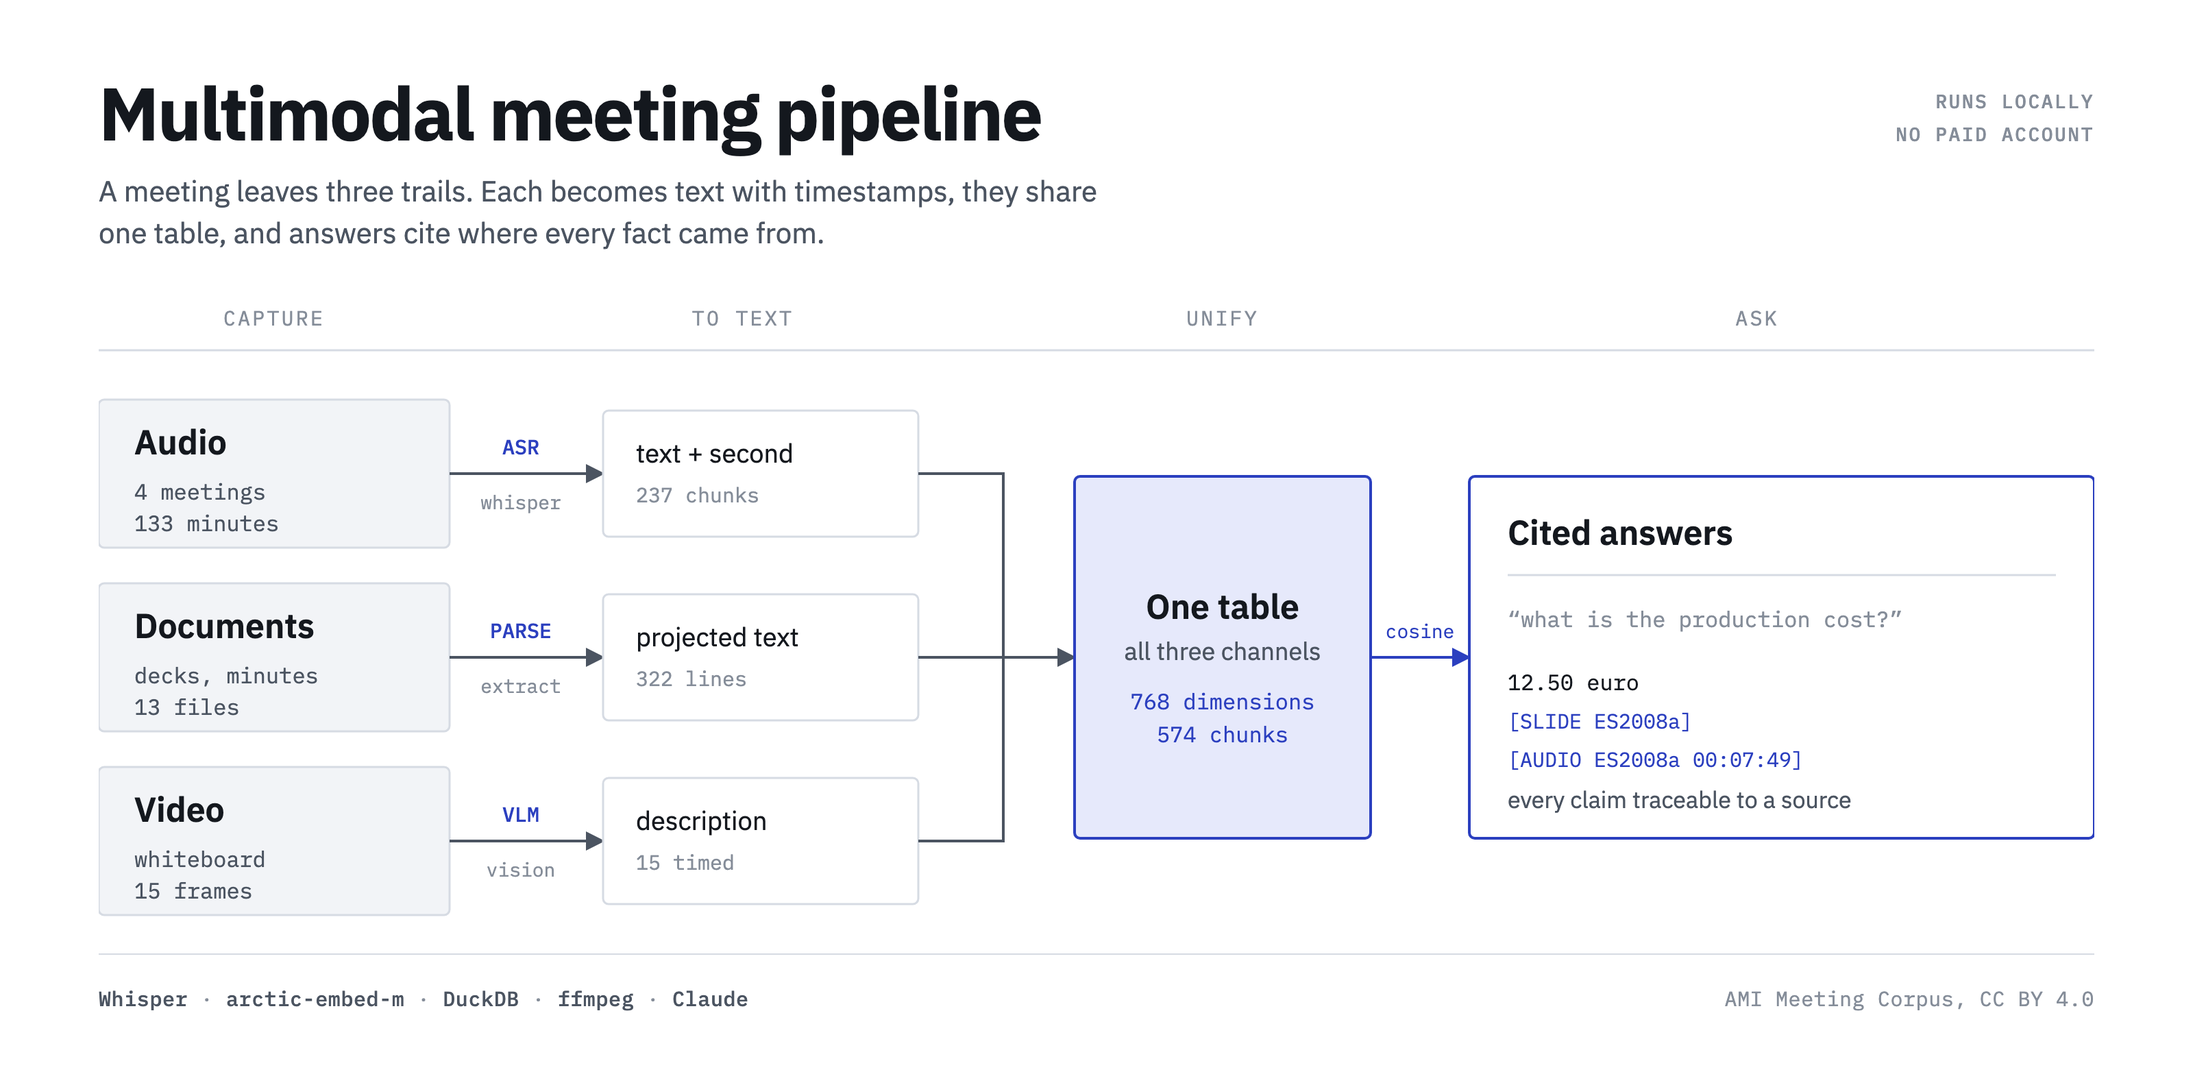
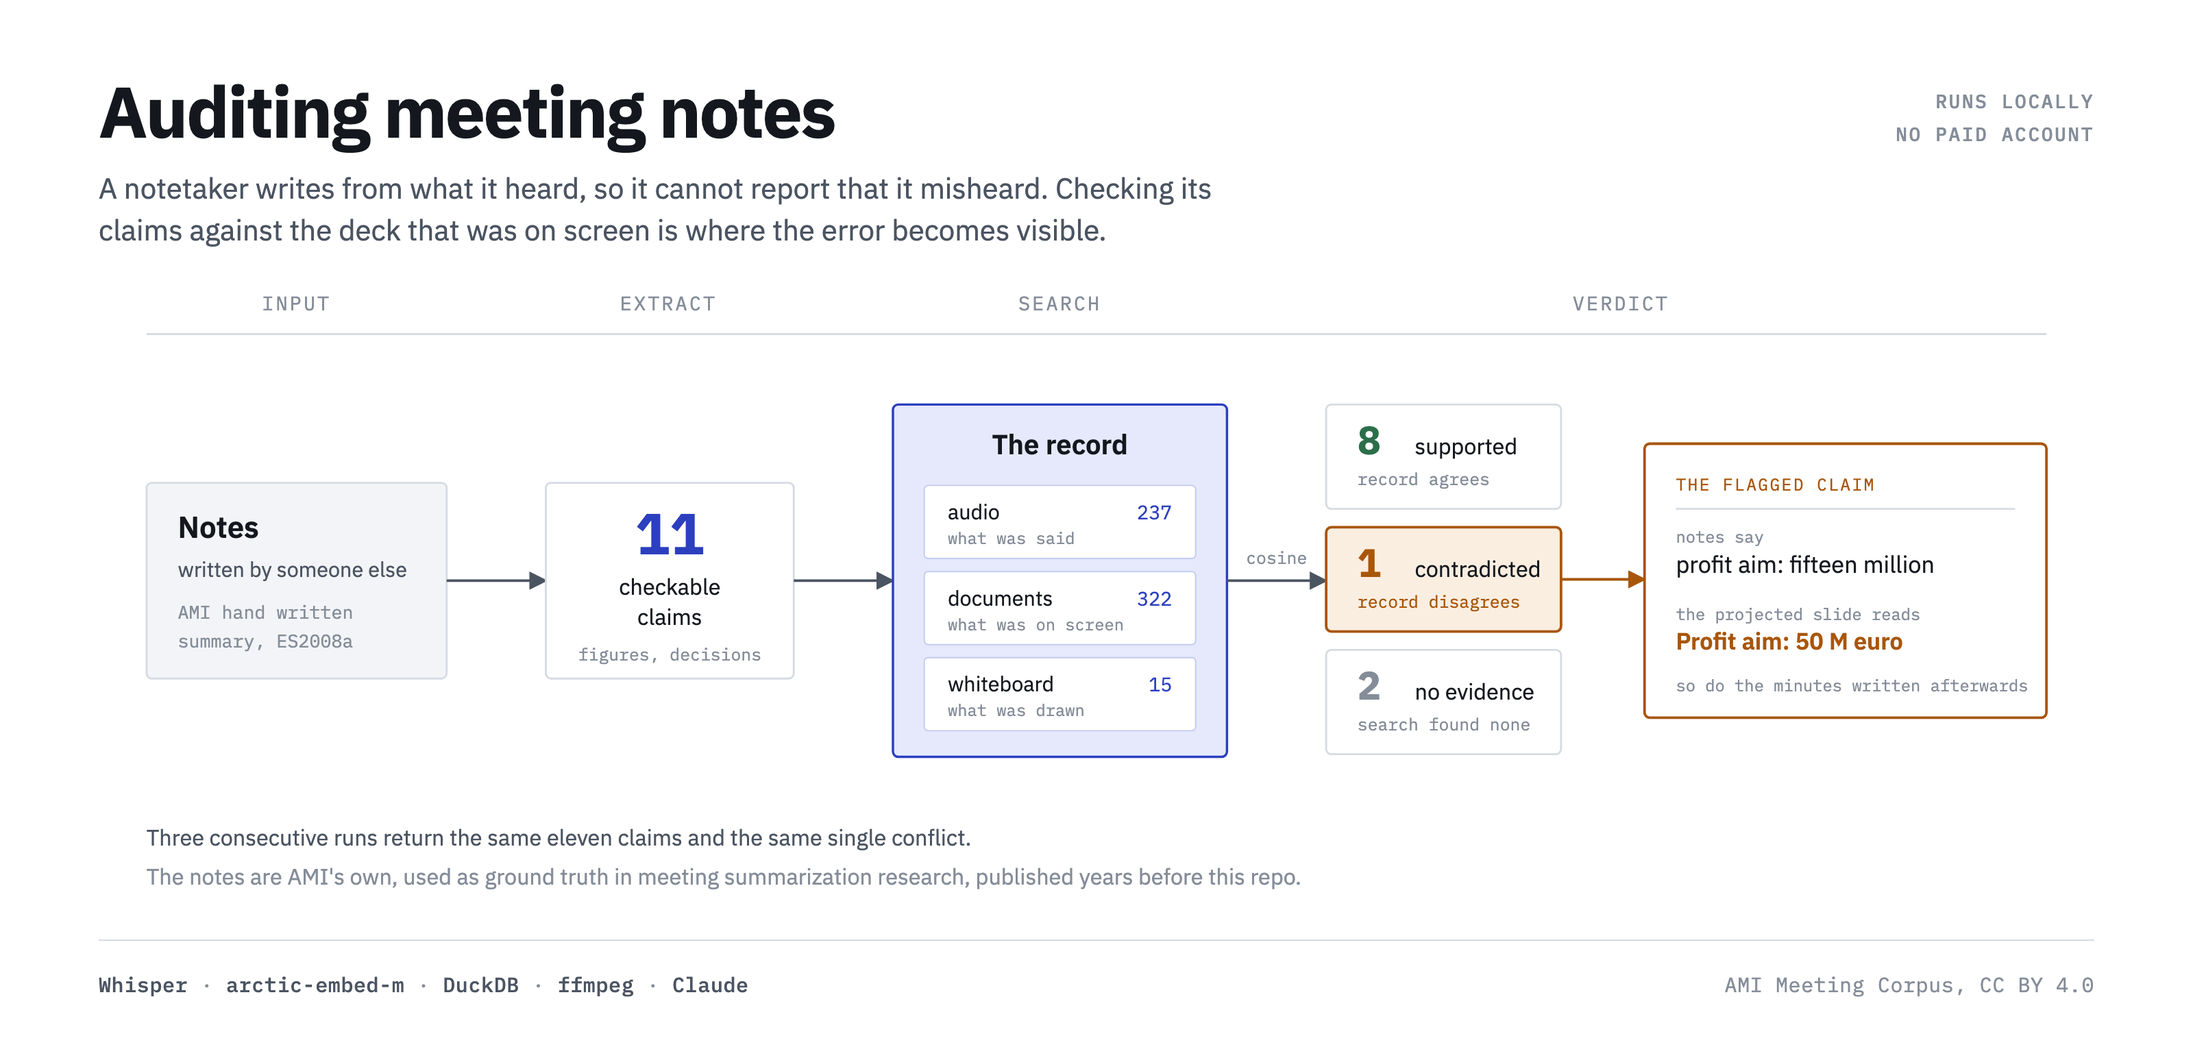
Slide and post now lead with the audit
The slide showed the ingest pipeline while the post had moved on to
auditing someone else's notes. Both now show the same thing: notes in,
eleven checkable claims out, each searched across the three channels, and
one claim contradicted by the deck that was on screen.

diff --git a/docs/slide.html b/docs/slide.html
@@ -1,4 +1,4 @@
-<title>Multimodal meeting pipeline</title>
+<title>Auditing meeting notes</title>
 <link rel="preconnect" href="https://fonts.googleapis.com">
 <link rel="preconnect" href="https://fonts.gstatic.com" crossorigin>
 <link rel="stylesheet" href="https://fonts.googleapis.com/css2?family=IBM+Plex+Mono:wght@400;500;600&family=IBM+Plex+Sans:wght@400;500;600;700&display=swap">
@@ -13,13 +13,16 @@
     --rule:     #D6DBE3;
     --blue:     #2B3FBF;
     --blue-lo:  #E6E9FB;
+    --flag:     #A8560A;
+    --flag-lo:  #FAEEE0;
+    --ok:       #2C6E4B;
   }
 
   * { box-sizing: border-box; margin: 0; padding: 0; }
 
   body {
     width: 1600px;
-    height: 782px;
+    height: 772px;
     background: var(--ground);
     color: var(--ink);
     font-family: "IBM Plex Sans", system-ui, -apple-system, sans-serif;
@@ -28,7 +31,7 @@
 
   .slide {
     width: 1600px;
-    height: 782px;
+    height: 772px;
     padding: 54px 72px 44px;
     display: flex;
     flex-direction: column;
@@ -38,11 +41,10 @@
     display: flex;
     justify-content: space-between;
     align-items: flex-start;
-    margin-bottom: 8px;
   }
 
   h1 {
-    font-size: 54px;
+    font-size: 52px;
     font-weight: 700;
     letter-spacing: -.026em;
     line-height: 1.05;
@@ -52,7 +54,7 @@
     font-size: 21px;
     color: var(--ink-soft);
     margin-top: 14px;
-    max-width: 60ch;
+    max-width: 66ch;
     line-height: 1.45;
   }
 
@@ -91,10 +93,11 @@
 
   <div class="top">
     <div>
-      <h1>Multimodal meeting pipeline</h1>
+      <h1>Auditing meeting notes</h1>
       <p class="sub">
-        A meeting leaves three trails. Each becomes text with timestamps, they
-        share one table, and answers cite where every fact came from.
+        A notetaker writes from what it heard, so it cannot report that it
+        misheard. Checking its claims against the deck that was on screen is
+        where the error becomes visible.
       </p>
     </div>
     <div class="badge">
@@ -103,97 +106,101 @@
     </div>
   </div>
 
-  <svg viewBox="0 0 1456 470" role="img"
-       aria-label="Three channels, audio, documents and video, each converted to timestamped text, embedded into one table, and queried to produce cited answers.">
+  <svg viewBox="0 0 1456 500" role="img"
+       aria-label="Notes written by someone else are broken into eleven checkable claims, each searched across the meeting's audio, documents and whiteboard channels, and returned as supported, contradicted or no evidence. One claim, a profit aim of fifteen million euro, is contradicted by a slide reading fifty million euro.">
     <defs>
       <marker id="a" viewBox="0 0 10 10" refX="9" refY="5"
               markerWidth="7" markerHeight="7" orient="auto-start-reverse">
         <path d="M 0 0 L 10 5 L 0 10 z" fill="#4B5461"/>
       </marker>
-      <marker id="b" viewBox="0 0 10 10" refX="9" refY="5"
+      <marker id="f" viewBox="0 0 10 10" refX="9" refY="5"
               markerWidth="7" markerHeight="7" orient="auto-start-reverse">
-        <path d="M 0 0 L 10 5 L 0 10 z" fill="#2B3FBF"/>
+        <path d="M 0 0 L 10 5 L 0 10 z" fill="#A8560A"/>
       </marker>
     </defs>
 
     <g font-family="IBM Plex Mono, monospace" font-size="15" letter-spacing="1.6"
        fill="#858D99" text-anchor="middle">
-      <text x="128" y="18">CAPTURE</text>
-      <text x="470" y="18">TO TEXT</text>
-      <text x="820" y="18">UNIFY</text>
-      <text x="1210" y="18">ASK</text>
+      <text x="115" y="18">INPUT</text>
+      <text x="400" y="18">EXTRACT</text>
+      <text x="700" y="18">SEARCH</text>
+      <text x="1130" y="18">VERDICT</text>
     </g>
     <line x1="0" y1="36" x2="1456" y2="36" stroke="#D6DBE3" stroke-width="1.5"/>
 
-    <!-- audio -->
-    <rect x="0" y="72" width="256" height="108" rx="4" fill="#F2F4F7" stroke="#D6DBE3" stroke-width="1.5"/>
-    <text x="26" y="112" font-size="25" font-weight="600" fill="#14181E">Audio</text>
-    <text x="26" y="145" font-family="IBM Plex Mono, monospace" font-size="16" fill="#4B5461">4 meetings</text>
-    <text x="26" y="168" font-family="IBM Plex Mono, monospace" font-size="16" fill="#4B5461">133 minutes</text>
+    <!-- input: someone else's notes -->
+    <rect x="0" y="150" width="230" height="150" rx="4" fill="#F2F4F7" stroke="#D6DBE3" stroke-width="1.5"/>
+    <text x="24" y="192" font-size="23" font-weight="600" fill="#14181E">Notes</text>
+    <text x="24" y="222" font-size="16" fill="#4B5461">written by someone else</text>
+    <text x="24" y="254" font-family="IBM Plex Mono, monospace" font-size="14" fill="#858D99">AMI hand written</text>
+    <text x="24" y="276" font-family="IBM Plex Mono, monospace" font-size="14" fill="#858D99">summary, ES2008a</text>
 
-    <line x1="256" y1="126" x2="368" y2="126" stroke="#4B5461" stroke-width="2" marker-end="url(#a)"/>
-    <text x="308" y="112" font-family="IBM Plex Mono, monospace" font-size="15" fill="#2B3FBF" text-anchor="middle" font-weight="500">ASR</text>
-    <text x="308" y="152" font-family="IBM Plex Mono, monospace" font-size="14" fill="#858D99" text-anchor="middle">whisper</text>
+    <line x1="230" y1="225" x2="306" y2="225" stroke="#4B5461" stroke-width="2" marker-end="url(#a)"/>
 
-    <rect x="368" y="80" width="230" height="92" rx="4" fill="#FFFFFF" stroke="#D6DBE3" stroke-width="1.5"/>
-    <text x="392" y="118" font-size="19" fill="#14181E">text + second</text>
-    <text x="392" y="147" font-family="IBM Plex Mono, monospace" font-size="15" fill="#858D99">237 chunks</text>
+    <!-- claims -->
+    <rect x="306" y="150" width="190" height="150" rx="4" fill="#FFFFFF" stroke="#D6DBE3" stroke-width="1.5"/>
+    <text x="401" y="205" font-size="44" font-weight="700" fill="#2B3FBF" text-anchor="middle">11</text>
+    <text x="401" y="236" font-size="17" fill="#14181E" text-anchor="middle">checkable</text>
+    <text x="401" y="259" font-size="17" fill="#14181E" text-anchor="middle">claims</text>
+    <text x="401" y="286" font-family="IBM Plex Mono, monospace" font-size="13" fill="#858D99" text-anchor="middle">figures, decisions</text>
 
-    <!-- documents -->
-    <rect x="0" y="206" width="256" height="108" rx="4" fill="#F2F4F7" stroke="#D6DBE3" stroke-width="1.5"/>
-    <text x="26" y="246" font-size="25" font-weight="600" fill="#14181E">Documents</text>
-    <text x="26" y="279" font-family="IBM Plex Mono, monospace" font-size="16" fill="#4B5461">decks, minutes</text>
-    <text x="26" y="302" font-family="IBM Plex Mono, monospace" font-size="16" fill="#4B5461">13 files</text>
+    <line x1="496" y1="225" x2="572" y2="225" stroke="#4B5461" stroke-width="2" marker-end="url(#a)"/>
 
-    <line x1="256" y1="260" x2="368" y2="260" stroke="#4B5461" stroke-width="2" marker-end="url(#a)"/>
-    <text x="308" y="246" font-family="IBM Plex Mono, monospace" font-size="15" fill="#2B3FBF" text-anchor="middle" font-weight="500">PARSE</text>
-    <text x="308" y="286" font-family="IBM Plex Mono, monospace" font-size="14" fill="#858D99" text-anchor="middle">extract</text>
+    <!-- the meeting record, three channels -->
+    <rect x="572" y="90" width="256" height="270" rx="4" fill="#E6E9FB" stroke="#2B3FBF" stroke-width="1.8"/>
+    <text x="700" y="128" font-size="21" font-weight="600" fill="#14181E" text-anchor="middle">The record</text>
 
-    <rect x="368" y="214" width="230" height="92" rx="4" fill="#FFFFFF" stroke="#D6DBE3" stroke-width="1.5"/>
-    <text x="392" y="252" font-size="19" fill="#14181E">projected text</text>
-    <text x="392" y="281" font-family="IBM Plex Mono, monospace" font-size="15" fill="#858D99">322 lines</text>
+    <rect x="596" y="152" width="208" height="56" rx="3" fill="#FFFFFF" stroke="#C3CAF2"/>
+    <text x="614" y="178" font-size="16" fill="#14181E">audio</text>
+    <text x="786" y="178" font-family="IBM Plex Mono, monospace" font-size="15" fill="#2B3FBF" text-anchor="end">237</text>
+    <text x="614" y="197" font-family="IBM Plex Mono, monospace" font-size="12.5" fill="#858D99">what was said</text>
 
-    <!-- video -->
-    <rect x="0" y="340" width="256" height="108" rx="4" fill="#F2F4F7" stroke="#D6DBE3" stroke-width="1.5"/>
-    <text x="26" y="380" font-size="25" font-weight="600" fill="#14181E">Video</text>
-    <text x="26" y="413" font-family="IBM Plex Mono, monospace" font-size="16" fill="#4B5461">whiteboard</text>
-    <text x="26" y="436" font-family="IBM Plex Mono, monospace" font-size="16" fill="#4B5461">15 frames</text>
+    <rect x="596" y="218" width="208" height="56" rx="3" fill="#FFFFFF" stroke="#C3CAF2"/>
+    <text x="614" y="244" font-size="16" fill="#14181E">documents</text>
+    <text x="786" y="244" font-family="IBM Plex Mono, monospace" font-size="15" fill="#2B3FBF" text-anchor="end">322</text>
+    <text x="614" y="263" font-family="IBM Plex Mono, monospace" font-size="12.5" fill="#858D99">what was on screen</text>
 
-    <line x1="256" y1="394" x2="368" y2="394" stroke="#4B5461" stroke-width="2" marker-end="url(#a)"/>
-    <text x="308" y="380" font-family="IBM Plex Mono, monospace" font-size="15" fill="#2B3FBF" text-anchor="middle" font-weight="500">VLM</text>
-    <text x="308" y="420" font-family="IBM Plex Mono, monospace" font-size="14" fill="#858D99" text-anchor="middle">vision</text>
+    <rect x="596" y="284" width="208" height="56" rx="3" fill="#FFFFFF" stroke="#C3CAF2"/>
+    <text x="614" y="310" font-size="16" fill="#14181E">whiteboard</text>
+    <text x="786" y="310" font-family="IBM Plex Mono, monospace" font-size="15" fill="#2B3FBF" text-anchor="end">15</text>
+    <text x="614" y="329" font-family="IBM Plex Mono, monospace" font-size="12.5" fill="#858D99">what was drawn</text>
 
-    <rect x="368" y="348" width="230" height="92" rx="4" fill="#FFFFFF" stroke="#D6DBE3" stroke-width="1.5"/>
-    <text x="392" y="386" font-size="19" fill="#14181E">description</text>
-    <text x="392" y="415" font-family="IBM Plex Mono, monospace" font-size="15" fill="#858D99">15 timed</text>
+    <line x1="828" y1="225" x2="904" y2="225" stroke="#4B5461" stroke-width="2" marker-end="url(#a)"/>
+    <text x="866" y="212" font-family="IBM Plex Mono, monospace" font-size="13" fill="#858D99" text-anchor="middle">cosine</text>
 
-    <!-- converge -->
-    <g stroke="#4B5461" stroke-width="2" fill="none">
-      <path d="M 598 126 L 660 126 L 660 260"/>
-      <path d="M 598 394 L 660 394 L 660 260"/>
-      <line x1="598" y1="260" x2="660" y2="260"/>
-      <line x1="660" y1="260" x2="712" y2="260" marker-end="url(#a)"/>
-    </g>
+    <!-- verdicts -->
+    <rect x="904" y="90" width="180" height="80" rx="4" fill="#FFFFFF" stroke="#D6DBE3" stroke-width="1.5"/>
+    <text x="928" y="128" font-size="30" font-weight="700" fill="#2C6E4B">8</text>
+    <text x="972" y="128" font-size="17" fill="#14181E">supported</text>
+    <text x="928" y="152" font-family="IBM Plex Mono, monospace" font-size="13" fill="#858D99">record agrees</text>
 
-    <rect x="712" y="128" width="216" height="264" rx="4" fill="#E6E9FB" stroke="#2B3FBF" stroke-width="2"/>
-    <text x="820" y="232" font-size="25" font-weight="600" fill="#14181E" text-anchor="middle">One table</text>
-    <text x="820" y="262" font-size="18" fill="#4B5461" text-anchor="middle">all three channels</text>
-    <text x="820" y="298" font-family="IBM Plex Mono, monospace" font-size="16" fill="#2B3FBF" text-anchor="middle">768 dimensions</text>
-    <text x="820" y="322" font-family="IBM Plex Mono, monospace" font-size="16" fill="#2B3FBF" text-anchor="middle">574 chunks</text>
+    <rect x="904" y="184" width="180" height="80" rx="4" fill="#FAEEE0" stroke="#A8560A" stroke-width="2"/>
+    <text x="928" y="222" font-size="30" font-weight="700" fill="#A8560A">1</text>
+    <text x="972" y="222" font-size="17" fill="#14181E">contradicted</text>
+    <text x="928" y="246" font-family="IBM Plex Mono, monospace" font-size="13" fill="#A8560A">record disagrees</text>
 
-    <line x1="928" y1="260" x2="1000" y2="260" stroke="#2B3FBF" stroke-width="2" marker-end="url(#b)"/>
-    <text x="964" y="246" font-family="IBM Plex Mono, monospace" font-size="14" fill="#2B3FBF" text-anchor="middle">cosine</text>
+    <rect x="904" y="278" width="180" height="80" rx="4" fill="#FFFFFF" stroke="#D6DBE3" stroke-width="1.5"/>
+    <text x="928" y="316" font-size="30" font-weight="700" fill="#858D99">2</text>
+    <text x="972" y="316" font-size="17" fill="#14181E">no evidence</text>
+    <text x="928" y="340" font-family="IBM Plex Mono, monospace" font-size="13" fill="#858D99">search found none</text>
 
-    <rect x="1000" y="128" width="456" height="264" rx="4" fill="#FFFFFF" stroke="#2B3FBF" stroke-width="2"/>
-    <text x="1028" y="178" font-size="25" font-weight="600" fill="#14181E">Cited answers</text>
-    <line x1="1028" y1="200" x2="1428" y2="200" stroke="#D6DBE3" stroke-width="1.5"/>
+    <line x1="1084" y1="224" x2="1148" y2="224" stroke="#A8560A" stroke-width="2" marker-end="url(#f)"/>
 
-    <text x="1028" y="238" font-family="IBM Plex Mono, monospace" font-size="16" fill="#858D99">“what is the production cost?”</text>
+    <!-- the one flagged claim -->
+    <rect x="1148" y="120" width="308" height="210" rx="4" fill="#FFFFFF" stroke="#A8560A" stroke-width="2"/>
+    <text x="1172" y="156" font-family="IBM Plex Mono, monospace" font-size="13" fill="#A8560A" letter-spacing="1.2">THE FLAGGED CLAIM</text>
+    <line x1="1172" y1="170" x2="1432" y2="170" stroke="#D6DBE3" stroke-width="1.5"/>
 
-    <text x="1028" y="284" font-family="IBM Plex Mono, monospace" font-size="16" fill="#14181E">12.50 euro</text>
-    <text x="1028" y="312" font-family="IBM Plex Mono, monospace" font-size="15" fill="#2B3FBF">[SLIDE ES2008a]</text>
-    <text x="1028" y="340" font-family="IBM Plex Mono, monospace" font-size="15" fill="#2B3FBF">[AUDIO ES2008a 00:07:49]</text>
-    <text x="1028" y="370" font-size="17" fill="#4B5461">every claim traceable to a source</text>
+    <text x="1172" y="196" font-family="IBM Plex Mono, monospace" font-size="12.5" fill="#858D99">notes say</text>
+    <text x="1172" y="219" font-size="18" fill="#14181E">profit aim: fifteen million</text>
+
+    <text x="1172" y="255" font-family="IBM Plex Mono, monospace" font-size="12.5" fill="#858D99">the projected slide reads</text>
+    <text x="1172" y="278" font-size="18" font-weight="600" fill="#A8560A">Profit aim: 50 M euro</text>
+
+    <text x="1172" y="310" font-family="IBM Plex Mono, monospace" font-size="12.5" fill="#858D99">so do the minutes written afterwards</text>
+
+    <text x="0" y="428" font-size="17" fill="#4B5461">Three consecutive runs return the same eleven claims and the same single conflict.</text>
+    <text x="0" y="458" font-size="17" fill="#858D99">The notes are AMI's own, used as ground truth in meeting summarization research, published years before this repo.</text>
   </svg>
 
   <div class="foot">

diff --git a/scripts/build_post.py b/scripts/build_post.py
@@ -29,51 +29,47 @@ def arrow(claim, rest):
 
 
 POST = "\n\n".join([
- "I've been learning multimodal data pipelines in Snowflake, ASR and OCR, so I rebuilt the course locally to see how a meeting breaks down into text you can actually query, (also created a repo, link at the end of the post). Here is how it works:",
+ "I've been learning multimodal data pipelines in Snowflake, so I built something that checks meeting notes against what was actually on the screen. Then I pointed it at notes written by humans:",
 
- "A meeting has 3 components: what people said, what was on the screen, and what someone drew on the board. Most tools only read the first one. All three end up as text in a single table, audio and video carrying timestamps.",
+ "It flagged one claim out of eleven.",
 
- arrow("Audio to text",
-       "Whisper runs locally with word-level timestamps. 2.2 hours of meetings transcribed in under 11 minutes, and confidential audio never leaves the laptop."),
+ "The notes said the profit aim was fifteen million euro. The slide projected during that meeting reads \"Profit aim: 50 M euro\", and so do the minutes the project manager typed up afterwards. The hand written transcript of that meeting also reads \"fifteen million\", so the error came in through the audio and rode into the summary.",
 
- arrow("Documents to text",
-       "the decks and minutes that were projected, mapped to the meeting where each one was shown."),
+ arrow("The tool was not told where to look",
+       "it pulls the checkable claims out of the notes, searches audio, documents and whiteboard frames for each one, and returns supported, contradicted or no evidence. Three consecutive runs returned the same eleven claims and the same single conflict."),
 
- arrow("Video to text",
-       "ffmpeg samples frames, and a vision model describes them and transcribes any legible text on the board."),
+ arrow("The machine broke a different number than the human did",
+       "on that same slide, Whisper turned a production cost of 12.50 euro into 1250, and got the profit aim right. The human record did the opposite. Neither error is visible from inside the audio, only against the document."),
 
- arrow("One table, not three",
-       "all three channels get embedded with the same model and land in one DuckDB table, so a single query ranks audio, documents and video against each other."),
+ arrow("It is not one meeting",
+       "of the 142 hand annotated summaries in this corpus, twelve state a profit aim. Ten say fifty million. Two say fifteen."),
 
- arrow("Answers you can audit",
-       "a token budget for the context, and answers that carry the audio timestamp or the document they came from."),
-
- "Every stage has an exact Snowflake Cortex equivalent, and the embedding model is the same one Cortex runs, from HuggingFace.",
+ "The notes I audited are AMI's own, written by trained annotators and used as ground truth in meeting summarization research. They were published years before this repo.",
 
  bold("Some lessons learned:"),
 
- arrow("The generated channel has to speak the language of the corpus",
-       "I wrote the vision prompt in Spanish over English meetings, so the descriptions clustered by language instead of topic, and a pricing question returned ten video frames and no pricing."),
+ arrow("A summary is only as right as the channel it was written from",
+       "nothing inside an audio only pipeline can report that it misheard."),
 
- arrow("Scene change sampling fails on whiteboards",
-       "slides cut hard between frames, but strokes accumulate slowly, so ffmpeg returned zero frames until I sampled by interval instead."),
+ arrow("No evidence is a retrieval result, not a verdict",
+       "two claims came back unmatched. That says the search missed them, not that they are false, and it is the part worth reading by hand."),
 
- arrow("The similarity threshold belongs to the model",
-       "arctic-embed rarely passes 0.4 on this corpus, so a 0.5 cutoff returns zero rows and raises nothing at all."),
+ arrow("For figures, the written document wins",
+       "speech turns 12.50 into \"twelve fifty\" and a transcript has to guess. A slide does not."),
 
  bold("Tech Stack:"),
 
- "- Whisper large v3 turbo, transcription with word-level timestamps",
+ "- Whisper large v3 turbo, transcription with word-level timestamps, running locally",
 
  "- snowflake-arctic-embed-m, embeddings, the same model Snowflake Cortex runs",
 
  "- DuckDB, one table holding audio, documents and video",
 
- "- Claude, frame descriptions and the cited answers",
+ "- Claude, claim extraction and the verdicts",
 
  "- AMI Meeting Corpus, CC BY 4.0, so anyone can clone and run the demo",
 
- "- Repo, demo meeting included: %s" % REPO,
+ "- Repo, demo included: %s" % REPO,
 
  "#MultimodalAI #DataEngineering #AIEngineering",
 ])
